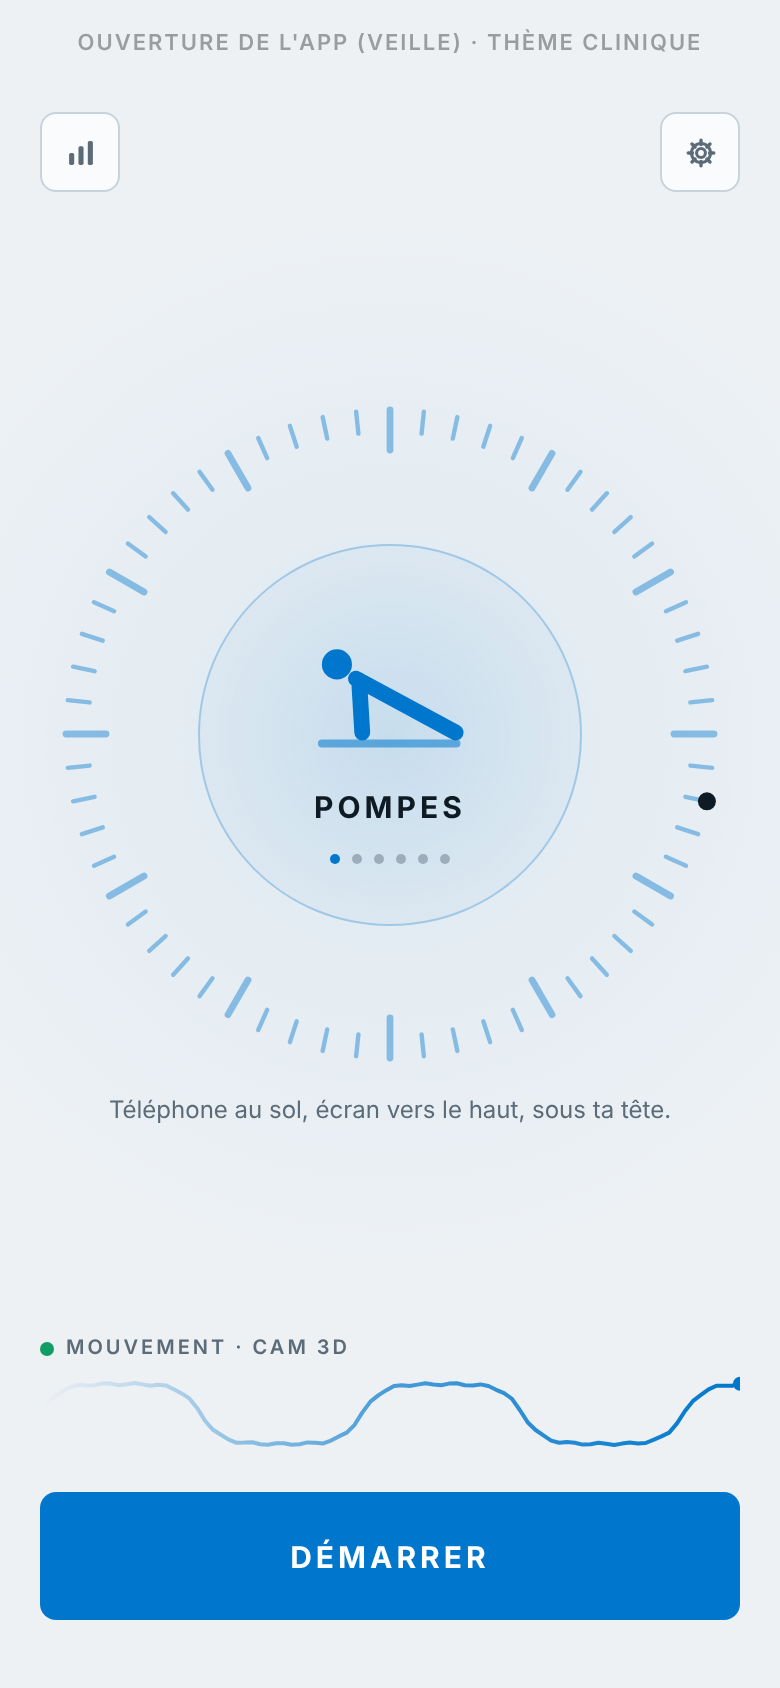
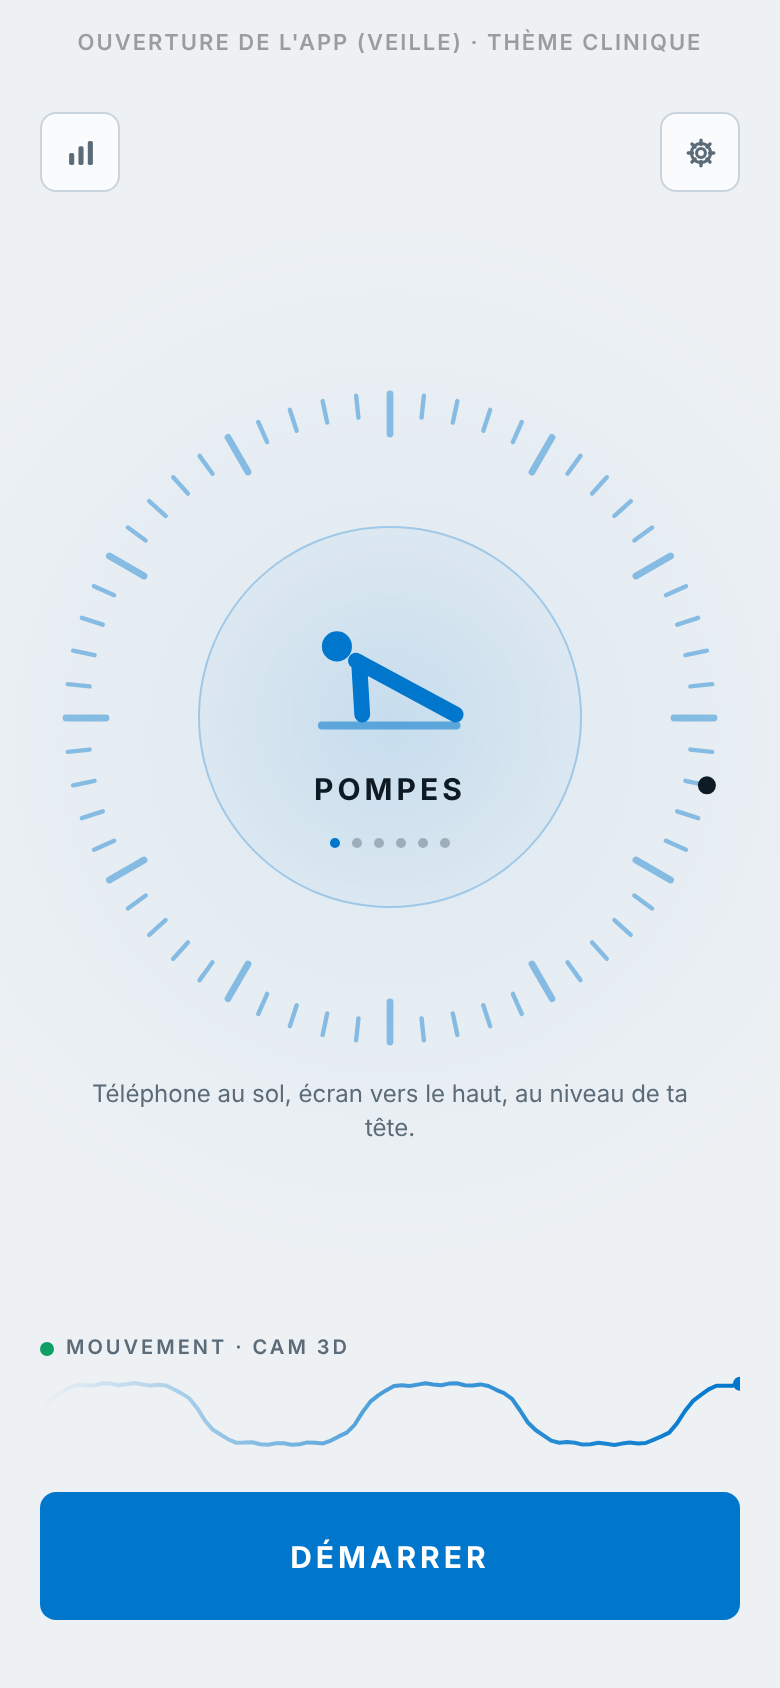
Consignes de placement : pompes au niveau de la tête, biceps en brassard
Pour les flexions, la main tient l'haltère : le téléphone va dans un brassard
sur l'avant-bras qui travaille, près du poignet (il suit son inclinaison).

Claude-Session: https://claude.ai/code/session_01FagVhaB5BD4mhMTzHfe9fj

diff --git a/RepCounter/Exercise.swift b/RepCounter/Exercise.swift
@@ -42,10 +42,10 @@ enum Exercise: String, CaseIterable, Identifiable {
     var placement: String {
         switch self {
         case .auto: return "Téléphone posé face à toi ou porté sur toi ; l'app cherche le geste répété."
-        case .pushups: return "Téléphone au sol, écran vers le haut, sous ta tête."
+        case .pushups: return "Téléphone au sol, écran vers le haut, au niveau de ta tête."
         case .crunches: return "Téléphone tenu à plat contre la poitrine."
         case .squats: return "Téléphone tenu à la main ou contre la poitrine."
-        case .curls: return "Téléphone dans la main qui travaille."
+        case .curls: return "Téléphone dans un brassard sur l'avant-bras qui travaille, près du poignet."
         case .press: return "Téléphone dans un brassard sur l'avant-bras qui pousse."
         }
     }

diff --git a/Design/mockups/screens.html b/Design/mockups/screens.html
@@ -32,10 +32,10 @@
 <div id="screen"></div>
 <script>
 const EXERCISES = [
-  ["pushup", "Pompes", "Téléphone au sol, écran vers le haut, sous ta tête.", "CAM 3D"],
+  ["pushup", "Pompes", "Téléphone au sol, écran vers le haut, au niveau de ta tête.", "CAM 3D"],
   ["crunch", "Abdos", "Téléphone tenu à plat contre la poitrine.", "GYRO"],
   ["squat", "Squats", "Téléphone tenu à la main ou contre la poitrine.", "ACCÉL"],
-  ["dumbbell", "Biceps", "Téléphone dans la main qui travaille.", "INCL"],
+  ["dumbbell", "Biceps", "Téléphone dans un brassard sur l'avant-bras qui travaille, près du poignet.", "INCL"],
   ["press", "Développé", "Téléphone dans un brassard sur l'avant-bras qui pousse.", "ACCÉL"],
   ["sparkles", "Autre", "Téléphone posé face à toi ou porté sur toi.", "MULTI"],
 ];

diff --git a/Simulation/simulate_counter.py b/Simulation/simulate_counter.py
@@ -410,7 +410,7 @@ class AutoCounter:
 # --- Capteurs synthétiques ---------------------------------------------------------------------
 
 def depth_reading(distance, coverage):
-    """Moitié centrale de l'image vue par la caméra TrueDepth, téléphone au sol sous la tête.
+    """Moitié centrale de l'image vue par la caméra TrueDepth, téléphone au sol, au niveau de la tête.
     Le corps, à `distance` (m), couvre `coverage` de la zone ; ses parties s'étalent sur
     25 cm de profondeur. Sous 20 cm, TrueDepth ne mesure plus rien, et le plafond est hors
     de portée. Renvoie (distance moyenne des pixels mesurables ou None, part mesurable) :
@@ -428,7 +428,7 @@ def synthetic_session(kind, segments, seed, pixel_count=192, fps=30):
     ("setup", durée) = installation au-dessus du téléphone posé (pompes).
     kind : "pushup" (téléphone au sol), "abs" (sur la poitrine, grands abdos),
     "crunch" (sur la poitrine, petits abdos rapides : seules les épaules décollent),
-    "squat" (à la main), "curl" (dans la main qui travaille)."""
+    "squat" (à la main), "curl" (brassard sur l'avant-bras qui travaille)."""
     rng = np.random.default_rng(seed)
     pixel_base = rng.uniform(0.2, 0.8, pixel_count)
     frames, t = [], 0.0
@@ -445,7 +445,7 @@ def synthetic_session(kind, segments, seed, pixel_count=192, fps=30):
             m = 0.5 * (1 - math.cos(2 * math.pi * tt / period)) if kind_of_segment == "rep" else 0.0
             values = {}
             if kind == "pushup":
-                # Téléphone au sol sous la tête : distance (pompe : 50 → 12 cm), part du champ
+                # Téléphone au sol, au niveau de la tête : distance (pompe : 50 → 12 cm), part du champ
                 # couverte par le corps, assombrissement de l'image, visage, téléphone immobile
                 coverage = 1.0
                 if walking:
@@ -475,7 +475,7 @@ def synthetic_session(kind, segments, seed, pixel_count=192, fps=30):
                 vertical = -0.2 * w * w * math.cos(w * tt) / 9.81 if kind_of_segment == "rep" else 0.0
                 values["vertical"] = np.array([vertical + rng.normal(0, 0.5 if walking else 0.02)])
             elif kind == "curl":
-                # Téléphone dans la main qui travaille : il pivote avec l'avant-bras
+                # Téléphone dans un brassard sur l'avant-bras qui travaille : il pivote avec lui
                 angle = rng.uniform(0, 3) if walking else math.radians(10 + 120 * m)
                 values["vertical"] = np.array([rng.normal(0, 0.5 if walking else 0.03)])
             elif kind == "crunch":
@@ -543,7 +543,7 @@ SCENARIOS = [
      [("rest", 30), ("pant", 30)], 0, "crunches"),
     ("[Squats] 10 squats, téléphone à la main", "squat",
      [("walk", 3), ("rest", 2), ("rep", 10 * 2.5, 2.5), ("rest", 3)], 10, "squats"),
-    ("[Biceps] 12 flexions, téléphone dans la main qui travaille", "curl",
+    ("[Biceps] 12 flexions, téléphone en brassard sur l'avant-bras", "curl",
      [("walk", 3), ("rest", 2), ("rep", 12 * 2.0, 2.0), ("rest", 3)], 12, "curls"),
 ]
 

diff --git a/README.md b/README.md
@@ -78,10 +78,10 @@ Chaque exercice fixe les capteurs écoutés.
 | Exercice | Téléphone | Capteurs |
 |---|---|---|
 | Autre exercice | posé face à toi, ou porté | tous, le plus régulier l'emporte |
-| Pompes | au sol, écran vers le haut, sous ta tête | profondeur, visage, image |
+| Pompes | au sol, écran vers le haut, au niveau de la tête | profondeur, visage, image |
 | Abdos | à plat contre la poitrine | gyroscope (vitesse de rotation) |
 | Squats | à la main ou contre la poitrine | accélération verticale, inclinaison |
-| Biceps | dans la main qui travaille | inclinaison, gyroscope |
+| Biceps | brassard sur l'avant-bras qui travaille, près du poignet | inclinaison, gyroscope |
 | Développé épaules | brassard sur l'avant-bras qui pousse | accélération verticale, inclinaison |
 
 Abdos : le gyroscope mesure la vitesse de rotation. Un petit basculement rapide des
